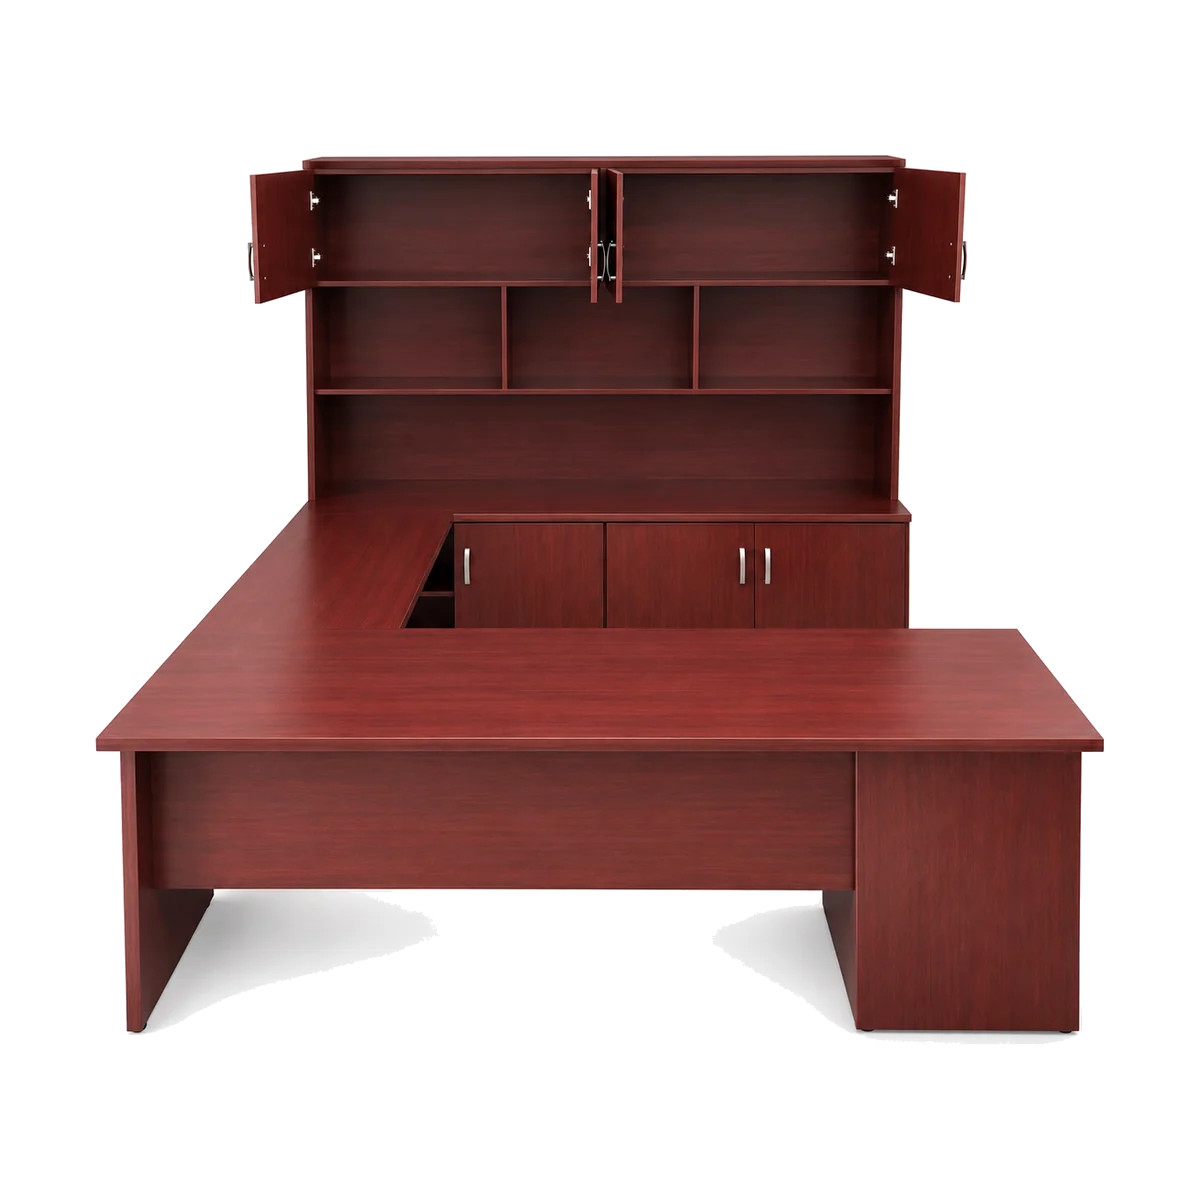
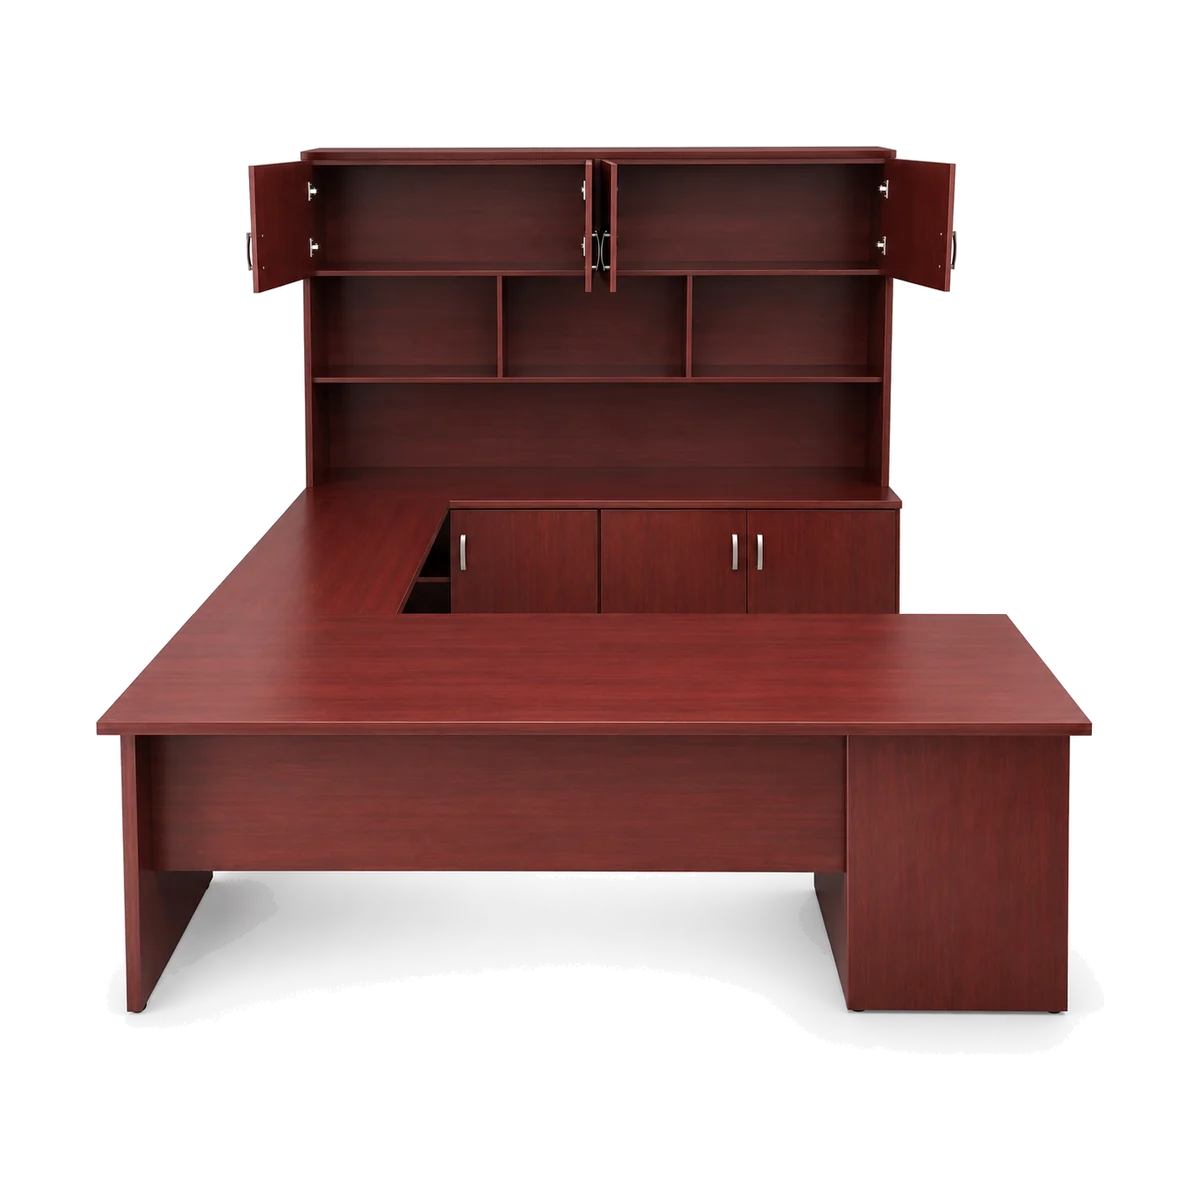
Fotos de producto: sombra de piso suave en lugar del recorte blanco
Las 16 imágenes img/prod-*.webp se rehicieron desde el zip del cliente: lo
blanco y gris neutro (incluido el piso encerrado entre sillas y patas) se
vuelve sombra negra semitransparente, así se ven bien sobre cualquier fondo.
La sombra CSS ya no se aplica a esas imágenes porque duplicaba la suya.

diff --git a/css/estilo.css b/css/estilo.css
@@ -879,3 +879,8 @@ body.catalogo em{color:var(--verde);font-style:normal;font-weight:inherit}
   .rev-datos{grid-template-columns:2fr 1fr 1fr 1fr}
 }
 @media (prefers-reduced-motion:reduce){.rev-prod figure img,.btn-contorno i{transition:none}}
+
+/* ---------- fotos de producto recortadas (15-oct-2026) ----------
+   Las imágenes img/prod-*.webp ya traen su propia sombra de piso, suave y transparente;
+   una sombra CSS encima la duplica y marca una orilla clara alrededor. */
+img[src^="img/prod-"]:not([src*="prod-silla"]){filter:none!important}
